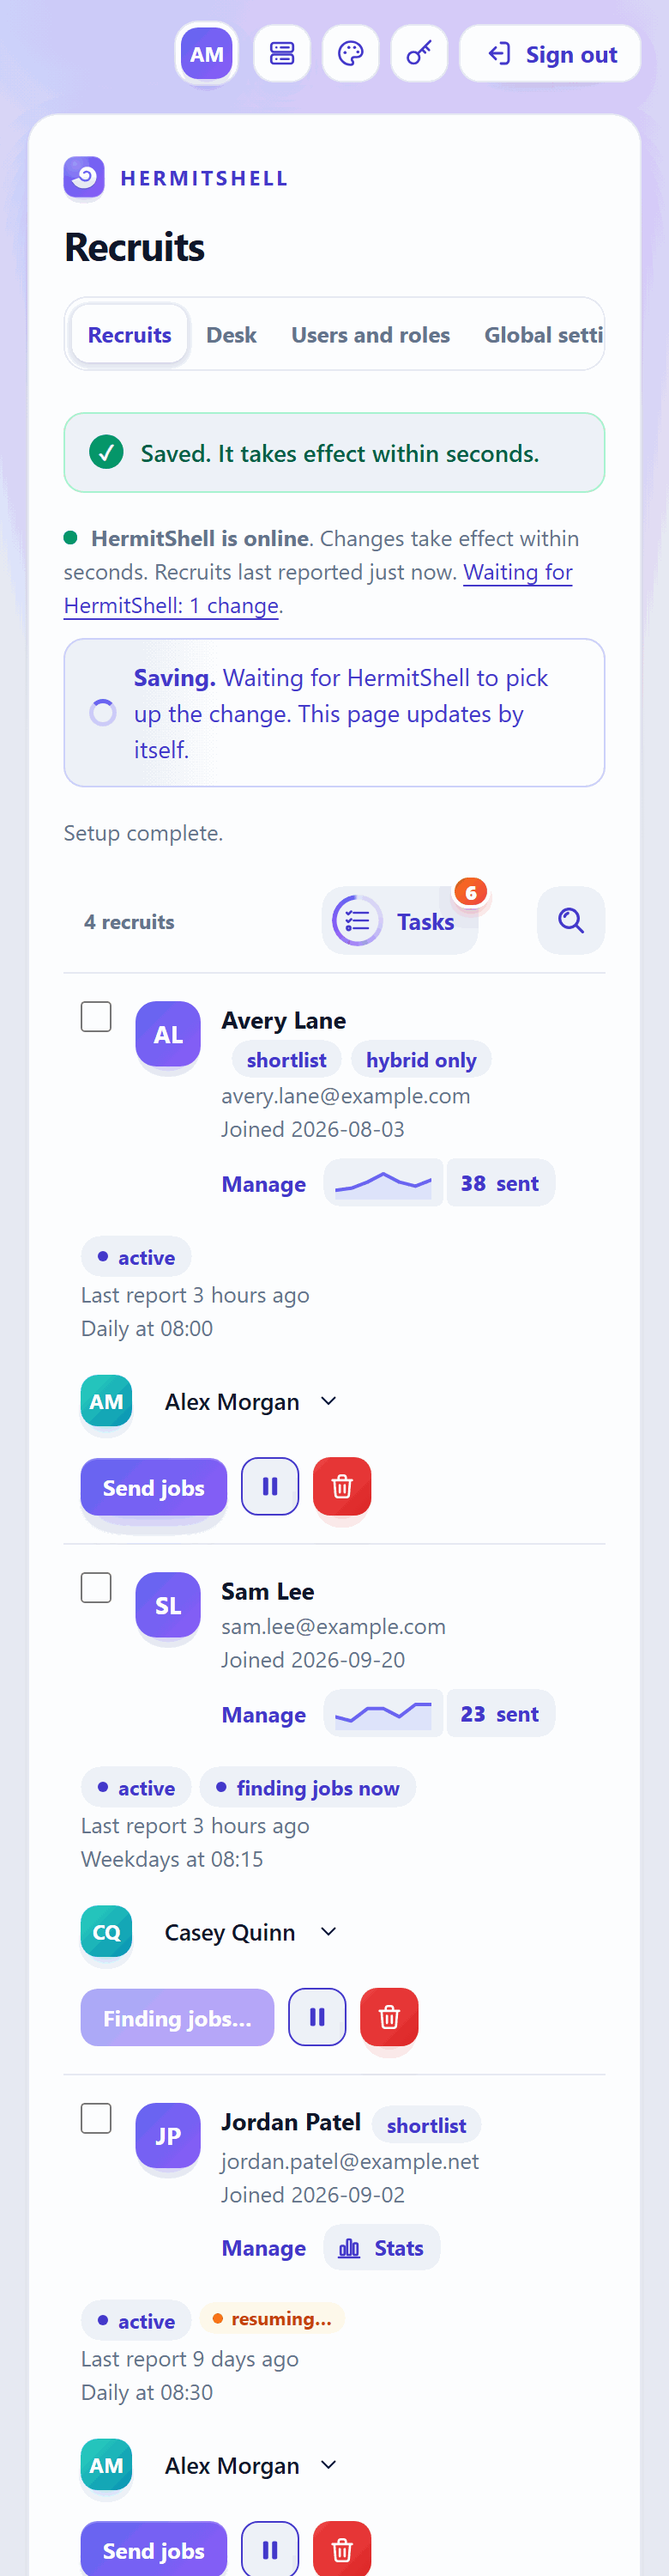
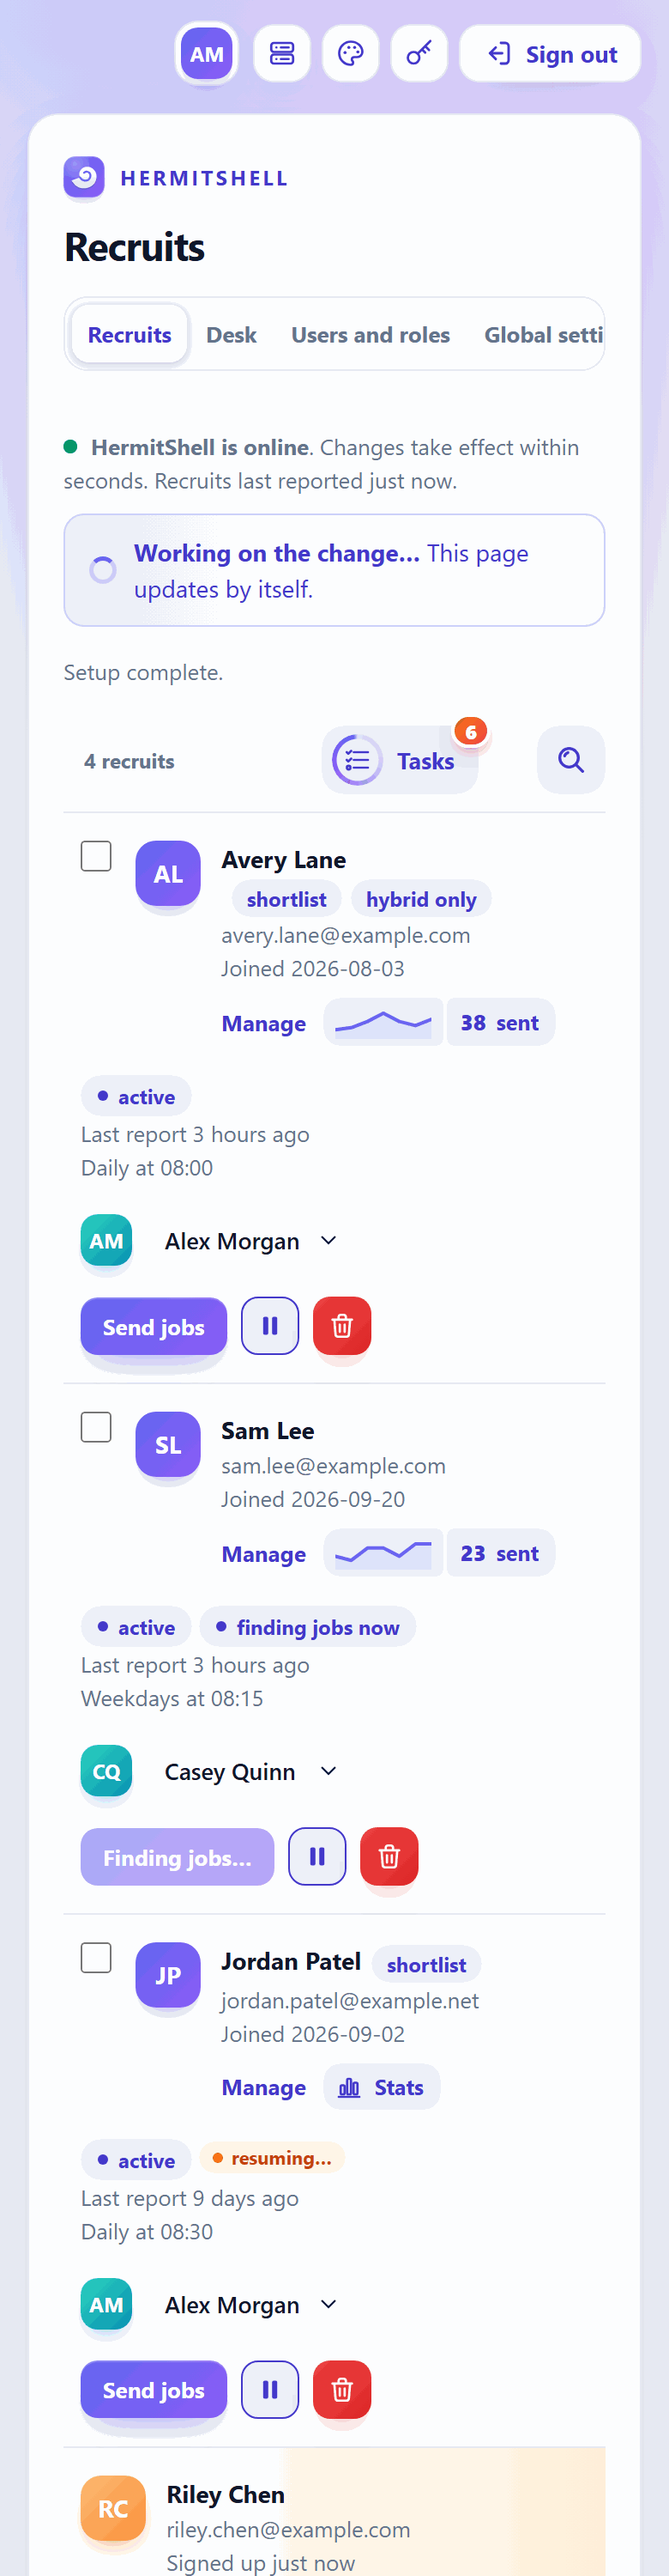
Show one message per change instead of three
A press now shows only the Working on the change bar while HermitShell applies it, then a single Done. The Saved note and the status line's waiting count no longer repeat it, a recruit's page leaves it to its status box, and Send jobs uses plain wording. Tests, docs, changelog and screenshots updated.

diff --git a/packages/daily-vacancy-report/feedback-worker/test/settings.test.js b/packages/daily-vacancy-report/feedback-worker/test/settings.test.js
@@ -210,8 +210,8 @@ describe("global settings page", () => {
     await act({ action: "test_email", to: "alex@example.com" });
     await act({ action: "pause", u: "sam-lee" });
     const { body } = await get("/admin/settings?done=queued");
-    expect(body).toContain("Saved. It takes effect within seconds.");
-    expect(body).toContain("Waiting for HermitShell to pick up the test email. This page updates by itself.");
+    expect(body).toContain("Working on the test email&hellip;</b> This page updates by itself.");
+    expect(body).not.toContain("Saved.");
     expect(body).not.toContain("sam-lee");
   });
 });
@@ -242,8 +242,8 @@ describe("pages that update themselves", () => {
     expect(waiting).toContain('<meta http-equiv="refresh" content="4;url=/admin/settings?done=queued&amp;w=1#keys">');
     expect((await get("/admin/settings?done=queued&w=1")).body).toContain('content="4;url=/admin/settings?done=queued&amp;w=2#keys"');
     expect(waiting).toContain('<body class="still">');
-    expect(waiting).toContain("Waiting for HermitShell to pick up the web search keys");
-    expect(waiting).toContain("Saved. It takes effect within seconds.");
+    expect(waiting).toContain("Working on the web search keys");
+    expect(waiting).not.toContain("Saved.");
     const keys = waiting.slice(waiting.indexOf('<h2 id="keys">'), waiting.indexOf('<h2 id="models">'));
     const tavily = keys.slice(keys.indexOf("cr-tavily"), keys.indexOf("cr-scrapfly"));
     expect(tavily).toContain('<span class="savingtag">saving&hellip;</span>');
@@ -284,7 +284,7 @@ describe("pages that update themselves", () => {
     const late = (await get("/admin/settings")).body;
     expect(refreshOf(late)).toBeNull();
     expect(late).not.toContain('<body class="still">');
-    expect(late).toContain("Still waiting for HermitShell</b> to pick up the test email. It may be offline or busy");
+    expect(late).toContain("Still working on the test email.</b> HermitShell may be offline or busy");
   });
 
   it("shows a pause on the dashboard at once and reloads until HermitShell applies it", async () => {
@@ -292,7 +292,7 @@ describe("pages that update themselves", () => {
     await act({ action: "pause", u: "sam-lee" });
     const body = (await get("/admin?done=queued")).body;
     expect(refreshOf(body)).toBe("4");
-    expect(body).toContain("Waiting for HermitShell to pick up the change. This page updates by itself.");
+    expect(body).toContain("Working on the change&hellip;</b> This page updates by itself.");
     const row = body.slice(body.indexOf("Sam &lt;b&gt;Lee"));
     expect(row).toMatch(/<span class="pill paused">paused<\/span> <span class="savingtag">pausing&hellip;<\/span>/);
     expect(row).toContain('aria-label="Resume reports for Sam &lt;b&gt;Lee&lt;/b&gt;"');
@@ -302,6 +302,24 @@ describe("pages that update themselves", () => {
     const after = (await get("/admin?done=queued")).body;
     expect(refreshOf(after)).toBeNull();
     expect(after).toContain(APPLIED);
+  });
+
+  it("says one thing per change: the working bar while it waits, then a single Done", async () => {
+    const { env, get, act } = await setup();
+    const notices = (body) => (body.match(/class="(note |waitbar)/g) || []).length;
+    for (const [action, done] of [["pause", "queued"], ["send_now", "sending"], ["retire", "retiring"]]) {
+      await act({ action, u: "sam-lee", ...(action === "retire" ? { confirm: "yes" } : {}) });
+      const body = (await get(`/admin?done=${done}`)).body;
+      expect(notices(body)).toBe(1);
+      expect(body).toContain('class="waitbar');
+      expect(body).not.toContain("Waiting for HermitShell:");
+      await clearQueue(env);
+    }
+    const after = (await get("/admin?done=queued")).body;
+    expect(notices(after)).toBe(1);
+    expect(after).toContain(APPLIED);
+    await act({ action: "test_email", to: "alex@example.com" });
+    expect(notices((await get("/admin/settings?done=queued")).body)).toBe(1);
   });
 
   it("doesn't reload for a sign-up or a CV, which take minutes and show their own progress", async () => {
@@ -507,7 +525,7 @@ describe("profile page", () => {
     const { body } = await get("/admin/profile?u=sam-lee&done=saved");
     expect(body).toContain('value="sam.lee@example.com"');
     expect(body).toContain(">Data Analyst</textarea>");
-    expect(body).toContain("The box above shows when it has taken effect");
+    expect(body).not.toContain('class="note');
     expect(body).toContain('<iframe class="saving" src="/admin/profile/status?u=sam-lee&amp;n=1"');
     expect((await get("/admin/profile?u=sam-lee")).body).toContain('src="/admin/profile/status?u=sam-lee"');
   });
@@ -691,7 +709,7 @@ describe("daily report and Send jobs now", () => {
     expect(dash).toContain('name="action" value="send_now"><input type="hidden" name="u" value="sam-lee">');
     const res = await act({ action: "send_now", u: "sam-lee" });
     expect(res.headers.get("Location")).toBe("/admin?done=sending");
-    expect((await get("/admin?done=sending")).body).toContain("HermitShell starts the scan within seconds");
+    expect((await get("/admin?done=sending")).body).toContain("Working on the change");
     const back = await act({ action: "send_now", u: "sam-lee", back: "profile" });
     expect(back.headers.get("Location")).toBe("/admin/profile?u=sam-lee&done=sending");
     // The second press came within a minute, so it is the same scan and is not queued again.

diff --git a/packages/daily-vacancy-report/feedback-worker/src/admin.js b/packages/daily-vacancy-report/feedback-worker/src/admin.js
@@ -473,11 +473,15 @@ function bulkRetireModal() {
     check: "Yes, retire them and email each one about their data", label: "Retire", icon: RETIRE_ICON });
 }
 
+// What a press says once it has queued a change. While the Saving bar shows, it says so instead, so a press shows one
+// message rather than three.
+const SAVING_CODES = new Set(["queued", "assigned", "retiring", "reactivating", "sending", "bulk"]);
+
 // "N done, M skipped" after a bulk change, from the counts in the redirect.
 function bulkNote(url) {
   const count = (name) => Math.max(0, Math.min(MAX_BULK, Math.floor(Number(url.searchParams.get(name))) || 0));
   const [n, m] = [count("n"), count("m")];
-  return `${n} done, ${m} skipped.${n ? " Changes take effect within seconds." : ""}`;
+  return `${n} done, ${m} skipped.`;
 }
 
 function deleteRecruitModal(p, csrf) {
@@ -513,7 +517,7 @@ async function dashboard(request, env, s) {
   const quick = mine.filter((i) => i.type === "admin" && Object.hasOwn(QUICK_ACTIONS, i.action));
   const refresh = waitRefresh(quick);
   const busy = new Map(quick.filter((i) => i.u).map((i) => [String(i.u), i.action]));
-  const waiting = describe(mine.filter((i) => !signups.some((p) => i.type === "signup" && p.email === String(i.email || ""))));
+  const waiting = describe(mine.filter((i) => !quick.includes(i) && !signups.some((p) => i.type === "signup" && p.email === String(i.email || ""))));
   const profiles = (current.profiles || []).filter((p) => canSee(s.me, p));
   const stats = await recentStats(env, profiles.map((p) => p.id));
   const inviteRows = invites.filter((i) => ownsRecruiter(s.me, String(i.recruiter || "")))
@@ -521,7 +525,8 @@ async function dashboard(request, env, s) {
       ? `joins ${esc(byId.get(i.recruiter).name)}` : "no recruiter"}</td>` : ""}<td class="muted">expires ${esc(when(i.expires, current.timezone))}</td>
 <td>${button(s.csrf, "revoke", "Revoke", { invite: i.id })}</td></tr>`).join("");
   const code = url.searchParams.get("done");
-  const done = code === "bulk" ? bulkNote(url) : (code === "queued" || code === "assigned") && !quick.length ? APPLIED : DONE[code];
+  const done = quick.length && SAVING_CODES.has(code) && !(code === "bulk" && Number(url.searchParams.get("m")) > 0) ? ""
+    : code === "bulk" ? bulkNote(url) : (code === "queued" || code === "assigned") ? APPLIED : DONE[code];
   const q = searchQuery(url);
   const only = statusQuery(url);
   const tag = tagQuery(url);
@@ -1024,7 +1029,7 @@ async function signedInRoute(request, env, s, path) {
     const url = new URL(request.url);
     const [current, queue] = await Promise.all([status(env), queued(env)]);
     const done = url.searchParams.get("done");
-    return settingsPage(current, s.csrf, { done: done === "queued" && !settingsWaiting(queue).length ? APPLIED : DONE[done] || "", queue, here: url,
+    return settingsPage(current, s.csrf, { done: done === "queued" ? (settingsWaiting(queue).length ? "" : APPLIED) : DONE[done] || "", queue, here: url,
       demo: demoSection(s.demo, s.csrf, current.timezone, done === "demo_on" || done === "demo_off") });
   }
   const url = new URL(request.url);
@@ -1042,7 +1047,7 @@ async function signedInRoute(request, env, s, path) {
     await indexTags(env, u, notes.tags);
     const done = url.searchParams.get("done");
     return profilePage(current, u, s.csrf,
-      { done: DONE[done] || "", queue, saving: ["saved", "cvqueued", "sending"].includes(done), cv: { info, busy: profileCvBusy(current, held, u) },
+      { done: done === "saved" || done === "sending" ? "" : DONE[done] || "", queue, saving: ["saved", "cvqueued", "sending"].includes(done), cv: { info, busy: profileCvBusy(current, held, u) },
         notes: notesSection(notes, u, s.csrf, s.me, current.timezone) });
   }
   if (path === NOTES_URL && request.method === "POST") return notesRequest(request, env, s);

diff --git a/packages/daily-vacancy-report/feedback-worker/test/users.test.js b/packages/daily-vacancy-report/feedback-worker/test/users.test.js
@@ -211,7 +211,7 @@ describe("recruiter sign-in and what they can see", () => {
     const { env, admin, casey } = await setup();
     const mine = await queueItem(env, { type: "admin", action: "pause", u: "sam-lee" });
     const page = await casey.text("/admin");
-    expect(page).toContain("Waiting for HermitShell: 1 change.");
+    expect(page).toContain("Working on the change");
     for (const bit of ['class="tasksbtn', 'id="tasks"', 'href="#tasks"', "<iframe"]) expect(page).not.toContain(bit);
     expect((await casey.get("/admin")).headers.get("Content-Security-Policy")).not.toContain("frame-src");
     const res = await casey.send("/admin/tasks", { task: mine });
@@ -333,7 +333,7 @@ describe("a recruiter's dashboard updating itself", () => {
     expect(mine.match(/savingtag">pausing/g)).toHaveLength(1);
     const all = await admin.text("/admin");
     expect(all.match(/savingtag">pausing/g)).toHaveLength(2);
-    expect(all).toContain("Waiting for HermitShell to pick up 2 changes");
+    expect(all).toContain("Working on 2 changes");
   });
 
   it("shows the server commands in the stale warning to an admin only", async () => {

diff --git a/packages/daily-vacancy-report/feedback-worker/test/demo.test.js b/packages/daily-vacancy-report/feedback-worker/test/demo.test.js
@@ -438,10 +438,10 @@ describe("demo mode presses play out", () => {
     await admin.post("/admin/action", { action: "assign", u: "robin-shaw", recruiter: "casey" });
     await admin.post("/admin/action", { action: "delete", u: "taylor-reid", confirm: "yes" });
     await admin.post("/admin/action", { action: "send_now", u: "morgan-ellis" });
-    expect((await admin.get("/admin")).body).toContain("Saving.");
+    expect((await admin.get("/admin")).body).toContain("Working on 4 changes");
     later(WORK_MS.change + 1000);
     const body = (await admin.get("/admin")).body;
-    expect(body).not.toContain("Saving.");
+    expect(body).not.toContain("class=\"waitbar");
     expect(body).toContain('aria-label="Resume reports for Sam Lee"');
     const robin = body.slice(body.indexOf('aria-label="Recruiter for Robin Shaw"')).split("</select>")[0];
     expect(robin).toContain('<option value="casey" selected>');

diff --git a/packages/daily-vacancy-report/feedback-worker/src/lib.js b/packages/daily-vacancy-report/feedback-worker/src/lib.js
@@ -399,8 +399,8 @@ export function reloadTo(url, section) {
 
 export function waitBar(what, refresh) {
   return refresh
-    ? `<p class="waitbar" role="status"><span class="spinner" aria-hidden="true"></span><span><b>Saving.</b> Waiting for HermitShell to pick up ${esc(what)}. This page updates by itself.</span></p>`
-    : `<p class="waitbar late" role="status"><span><b>Still waiting for HermitShell</b> to pick up ${esc(what)}. It may be offline or busy. Reload the page to check again.</span></p>`;
+    ? `<p class="waitbar" role="status"><span class="spinner" aria-hidden="true"></span><span><b>Working on ${esc(what)}&hellip;</b> This page updates by itself.</span></p>`
+    : `<p class="waitbar late" role="status"><span><b>Still working on ${esc(what)}.</b> HermitShell may be offline or busy. Reload the page to check again.</span></p>`;
 }
 
 export function savingTag(label = "saving") {

diff --git a/packages/daily-vacancy-report/feedback-worker/e2e/models.spec.js b/packages/daily-vacancy-report/feedback-worker/e2e/models.spec.js
@@ -59,7 +59,7 @@ test("an AI model key is added from its modal and queued for HermitShell, sealed
   await modal.getByLabel(/^Model/).fill("Qwen/Qwen2.5-14B-Instruct");
   await modal.getByRole("button", { name: "Save" }).click();
   await expect(page).toHaveURL(/done=queued#models$/);
-  await expect(page.locator(".waitbar")).toContainText("Waiting for HermitShell to pick up the AI model settings");
+  await expect(page.locator(".waitbar")).toContainText("Working on the AI model settings");
   await expect(row.locator(".savingtag")).toHaveText("saving…");
   await expect(page.locator("body")).not.toContainText("rc-e2e-featherless-0001");
   const res = await hermitShellApi(request, "GET", "/api/queue?full=1");

diff --git a/packages/daily-vacancy-report/feedback-worker/e2e/autoupdate.spec.js b/packages/daily-vacancy-report/feedback-worker/e2e/autoupdate.spec.js
@@ -33,7 +33,7 @@ test("a key added on Global settings shows as saving, then appears by itself onc
   await applyQueue(request, hermitShellStatus());
   await signIn(page);
   const row = await addTavilyKey(page);
-  await expect(page.locator(".waitbar")).toContainText("Waiting for HermitShell to pick up the web search keys. This page updates by itself.");
+  await expect(page.locator(".waitbar")).toContainText("Working on the web search keys… This page updates by itself.");
   await expect(row.locator(".savingtag")).toHaveText("saving…");
 
   const status = hermitShellStatus();

diff --git a/packages/daily-vacancy-report/feedback-worker/test/bulk.test.js b/packages/daily-vacancy-report/feedback-worker/test/bulk.test.js
@@ -55,7 +55,8 @@ describe("bulk actions", () => {
     const page = await admin.text("/admin?done=bulk&n=2&m=4");
     expect(page).toContain("2 done, 4 skipped.");
     expect(page.match(/pausing/g)?.length).toBeGreaterThanOrEqual(2);
-    expect(page).toContain("Waiting for HermitShell: 2 changes");
+    expect(page).toContain("Working on 2 changes&hellip;");
+    expect(page).not.toContain("Waiting for HermitShell:");
   });
 
   it("shows a checkbox on each recruit's row for the bar's form, and Assign only to admins", async () => {

diff --git a/packages/daily-vacancy-report/feedback-worker/src/settings.js b/packages/daily-vacancy-report/feedback-worker/src/settings.js
@@ -683,5 +683,5 @@ export const SETTINGS_DONE = {
   cvmissing: "Upload a CV file or paste the CV (at least a few lines).",
   cvqueued: "CV uploaded. HermitShell reads it and updates the profile within about 10 minutes, then emails a summary.",
   badtime: "Choose a time for the daily report.",
-  sending: "Sending. HermitShell starts the scan within seconds while it is connected; the email follows when it finishes, usually in 10 to 20 minutes.",
+  sending: "Looking for jobs now. The email arrives in about 10 to 20 minutes.",
 };

diff --git a/packages/daily-vacancy-report/feedback-worker/test/localmodel.test.js b/packages/daily-vacancy-report/feedback-worker/test/localmodel.test.js
@@ -134,7 +134,7 @@ describe("the server model's row and its Change window", () => {
     const { admin, act } = await setup();
     await act({ action: "model_local", model: SEVEN });
     const settings = await admin.get("/admin/settings?done=queued");
-    expect(settings).toContain("Waiting for HermitShell to pick up the server model");
+    expect(settings).toContain("Working on the server model");
     expect(row(settings)).toContain('<span class="savingtag">saving&hellip;</span>');
   });
 

diff --git a/docs/screenshots.md b/docs/screenshots.md
@@ -379,7 +379,7 @@ buttons. On a phone everything is in one column.
 
 | Control | What it does |
 | --- | --- |
-| Status line | **HermitShell is online** (green dot) while its live link is up, so changes take effect within seconds, then when it last reported its profiles. Without the link: when HermitShell last checked in, with the time in your timezone (`HERMES_TIMEZONE`). Also says how many changes are still **Waiting for HermitShell**, which opens **Tasks** for an admin. While a pause, resume, delete, assignment or send of yours is waiting, a **Saving** bar shows under it, the row carries a tag such as **pausing&hellip;**, and the page updates by itself until it is applied. A warning appears above it if HermitShell hasn't checked in for 45 minutes |
+| Status line | **HermitShell is online** (green dot) while its live link is up, so changes take effect within seconds, then when it last reported its profiles. Without the link: when HermitShell last checked in, with the time in your timezone (`HERMES_TIMEZONE`). Also says how many other changes are still **Waiting for HermitShell**, which opens **Tasks** for an admin. While a pause, resume, delete, retire, assignment or send of yours is waiting, a **Working on the change&hellip;** bar shows under it instead of a **Saved** note, the row carries a tag such as **pausing&hellip;**, and the page updates by itself until it is applied, then shows a single **Done**. A warning appears above it if HermitShell hasn't checked in for 45 minutes |
 | **Tasks** (loading circle + number, admins only) | Opens the [task list](#tasks): everything HermitShell is doing or has waiting. The ring turns while something runs and the number in the corner says how many tasks there are |
 | Search (magnifying glass) | Slides out a search box and a status dropdown. Type part of a name, email, place, tag or recruiter and press Enter: only the recruits with every word are listed, with **1 of 3 recruits** above the table. The dropdown (**Any status**, **Active**, **Paused**, **Finding jobs now**, **No CV**, **Pending sign-up**) narrows the list to that status, on its own or with the words; it applies as soon as it is picked (without JavaScript, press **Show**). Searching a recruiter lists them first, followed by all their recruits. **&times;** shows everyone again |
 | **pending** (orange) | Someone who has sent the invite form. They stay in the table, with when they signed up and what they're looking for, while HermitShell reads their CV, then the row becomes their profile |

diff --git a/docs/feedback-worker.md b/docs/feedback-worker.md
@@ -738,8 +738,8 @@ and never holds a prompt, a reply or a key.
 <img src="images/worker/admin-settings-usage.png" alt="Model tokens used: job ratings, title screening, second opinions, summaries, cover letters and tailored CVs, each with requests, tokens in and out, tokens a request and time" width="720">
 
 Keys and passwords are stored on the HermitShell server (`state/dashboard.json`, mode 600) and shown only as their last four characters. Changes wait in KV and
-are applied by `profiles.py`, within seconds over the live link. Until then a **Saving** bar at the top
-says what is pending, the key or model being changed carries a **saving&hellip;** tag, a new model order
+are applied by `profiles.py`, within seconds over the live link. Until then a **Working on&hellip;** bar at the top
+says what is pending (it is the only message: no **Saved** note beside it), the key or model being changed carries a **saving&hellip;** tag, a new model order
 is shown picked, and the email server form shows what you saved rather than the old values. The page
 updates itself every 4 seconds for the first 45, then every 20, and once HermitShell has applied the
 change it shows it with **Done. The page shows the change.** After 5 minutes it stops and says HermitShell may be
@@ -1094,8 +1094,9 @@ Each cancel is written in that recruit's [history](#history) with who pressed it
 **Cancelled the tailored CV: Data Engineer at Northwind** or **Stopped the job report**. A
 cancelled global settings change or sign-up belongs to no recruit, so it is not kept.
 
-Recruiters don't get the button or the window, and `/admin/tasks` answers them with 403; the status line
-still tells them how many of their changes are **Waiting for HermitShell**.
+Recruiters don't get the button or the window, and `/admin/tasks` answers them with 403; their waiting
+changes still show, as the **Working on&hellip;** bar for a press on the dashboard and as **Waiting for
+HermitShell: N changes** in the status line for the rest.
 
 The window has no JavaScript: its list is a frame (`/admin/tasks`, only embeddable by the dashboard)
 that reloads every 5 seconds for 2 minutes, then every 15 seconds for 9 more, then stops; with
